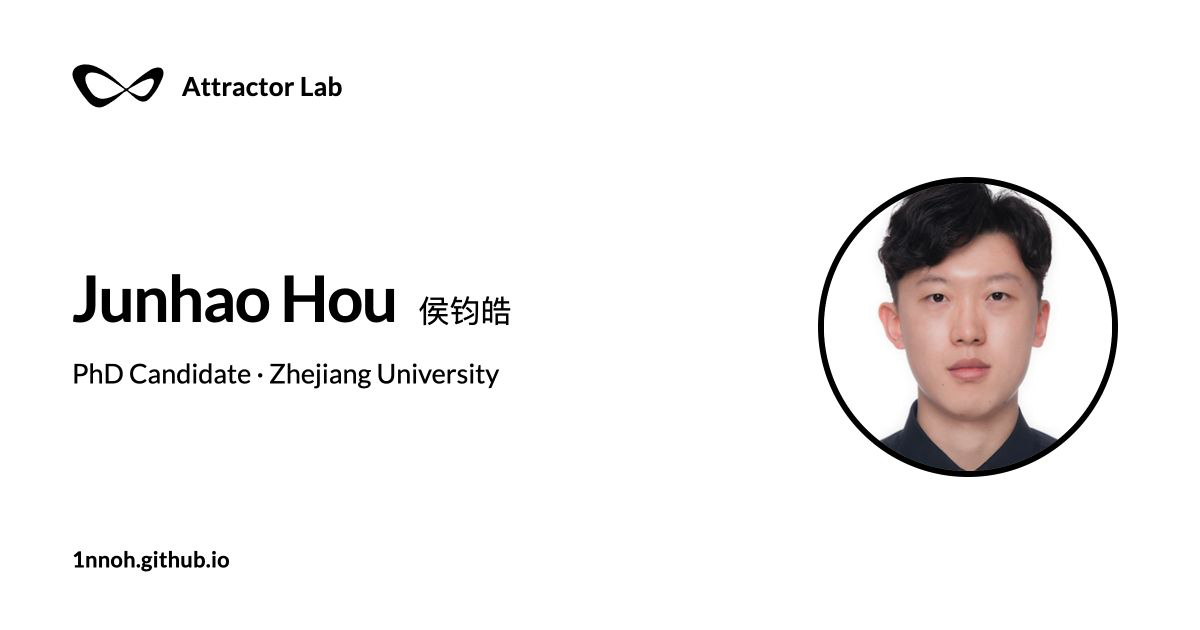
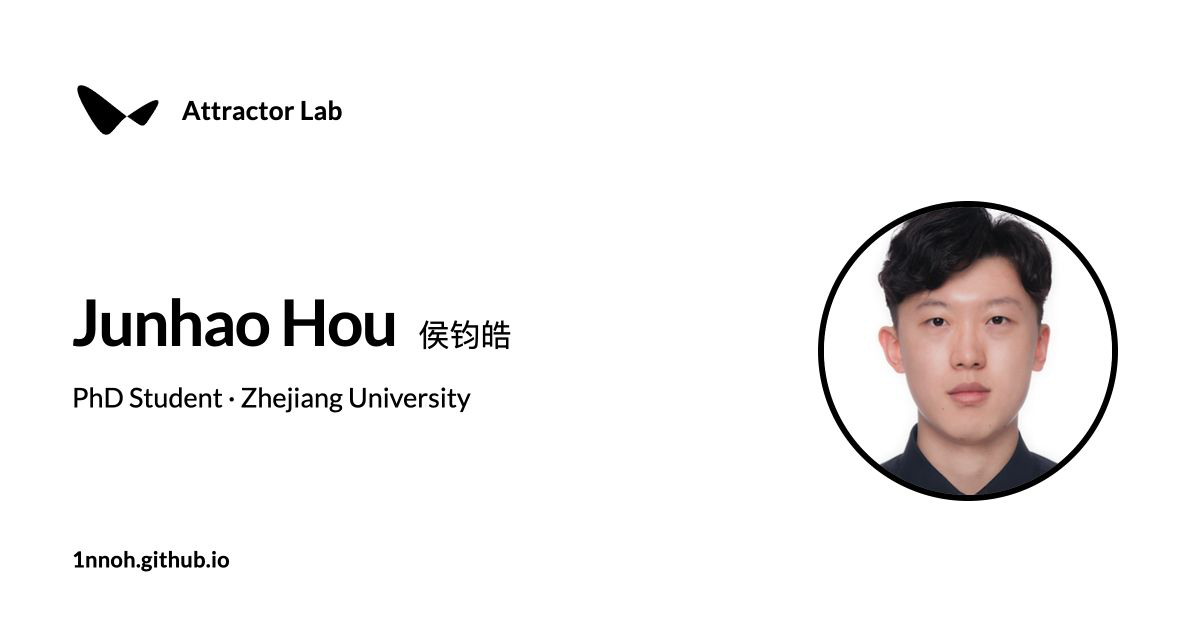
🐛 fix(profile): publish PhD student wording
Publish the confirmed role wording across the Bio, identity metadata, and Open Graph card.

Changed region(s): [[0.6783, 0.2714, 0.9558, 0.8143], [0.0617, 0.4222, 0.4317, 0.6635], [0.0617, 0.0905, 0.3083, 0.2111]]

diff --git a/index.html b/index.html
@@ -8,7 +8,7 @@
     <title>Junhao Hou</title>
     <meta
       name="description"
-      content="Academic homepage of Junhao Hou, a PhD candidate at Zhejiang University working on physical intelligence across computer-aided design, computer vision, machine learning, and robotics."
+      content="Academic homepage of Junhao Hou, a PhD student at Zhejiang University working on physical intelligence across computer-aided design, computer vision, machine learning, and robotics."
     >
     <link rel="canonical" href="https://1nnoh.github.io/">
     <meta name="google-site-verification" content="X1KHLyEjtrnLnrv_cN7r70jwHaNu9BpkyQzswrxYc9w">
@@ -18,7 +18,7 @@
     <meta property="og:title" content="Junhao Hou">
     <meta
       property="og:description"
-      content="Research and academic profile of Junhao Hou, a PhD candidate at Zhejiang University."
+      content="Research and academic profile of Junhao Hou, a PhD student at Zhejiang University."
     >
     <meta property="og:url" content="https://1nnoh.github.io/">
     <meta
@@ -37,7 +37,7 @@
     <meta name="twitter:title" content="Junhao Hou">
     <meta
       name="twitter:description"
-      content="Research and academic profile of Junhao Hou, a PhD candidate at Zhejiang University."
+      content="Research and academic profile of Junhao Hou, a PhD student at Zhejiang University."
     >
     <meta
       name="twitter:image"
@@ -66,8 +66,8 @@
           "givenName": "Junhao",
           "familyName": "Hou",
           "alternateName": "侯钧皓",
-          "description": "PhD candidate at Zhejiang University working on physical intelligence across computer-aided design, computer vision, machine learning, and robotics.",
-          "jobTitle": "PhD Candidate",
+          "description": "PhD student at Zhejiang University working on physical intelligence across computer-aided design, computer vision, machine learning, and robotics.",
+          "jobTitle": "PhD Student",
           "affiliation": {
             "@type": "Organization",
             "name": "Zhejiang University"
@@ -99,7 +99,7 @@
 
           <div class="profile-introduction">
             <p>
-              I am a PhD candidate at
+              I am a PhD student at
               <a href="https://www.zju.edu.cn/english/" target="_blank" rel="noreferrer">Zhejiang University</a>,
               supervised by
               <a href="http://www.cad.zju.edu.cn/home/ysliu/" target="_blank" rel="noreferrer">Prof. Yusheng Liu</a>.
